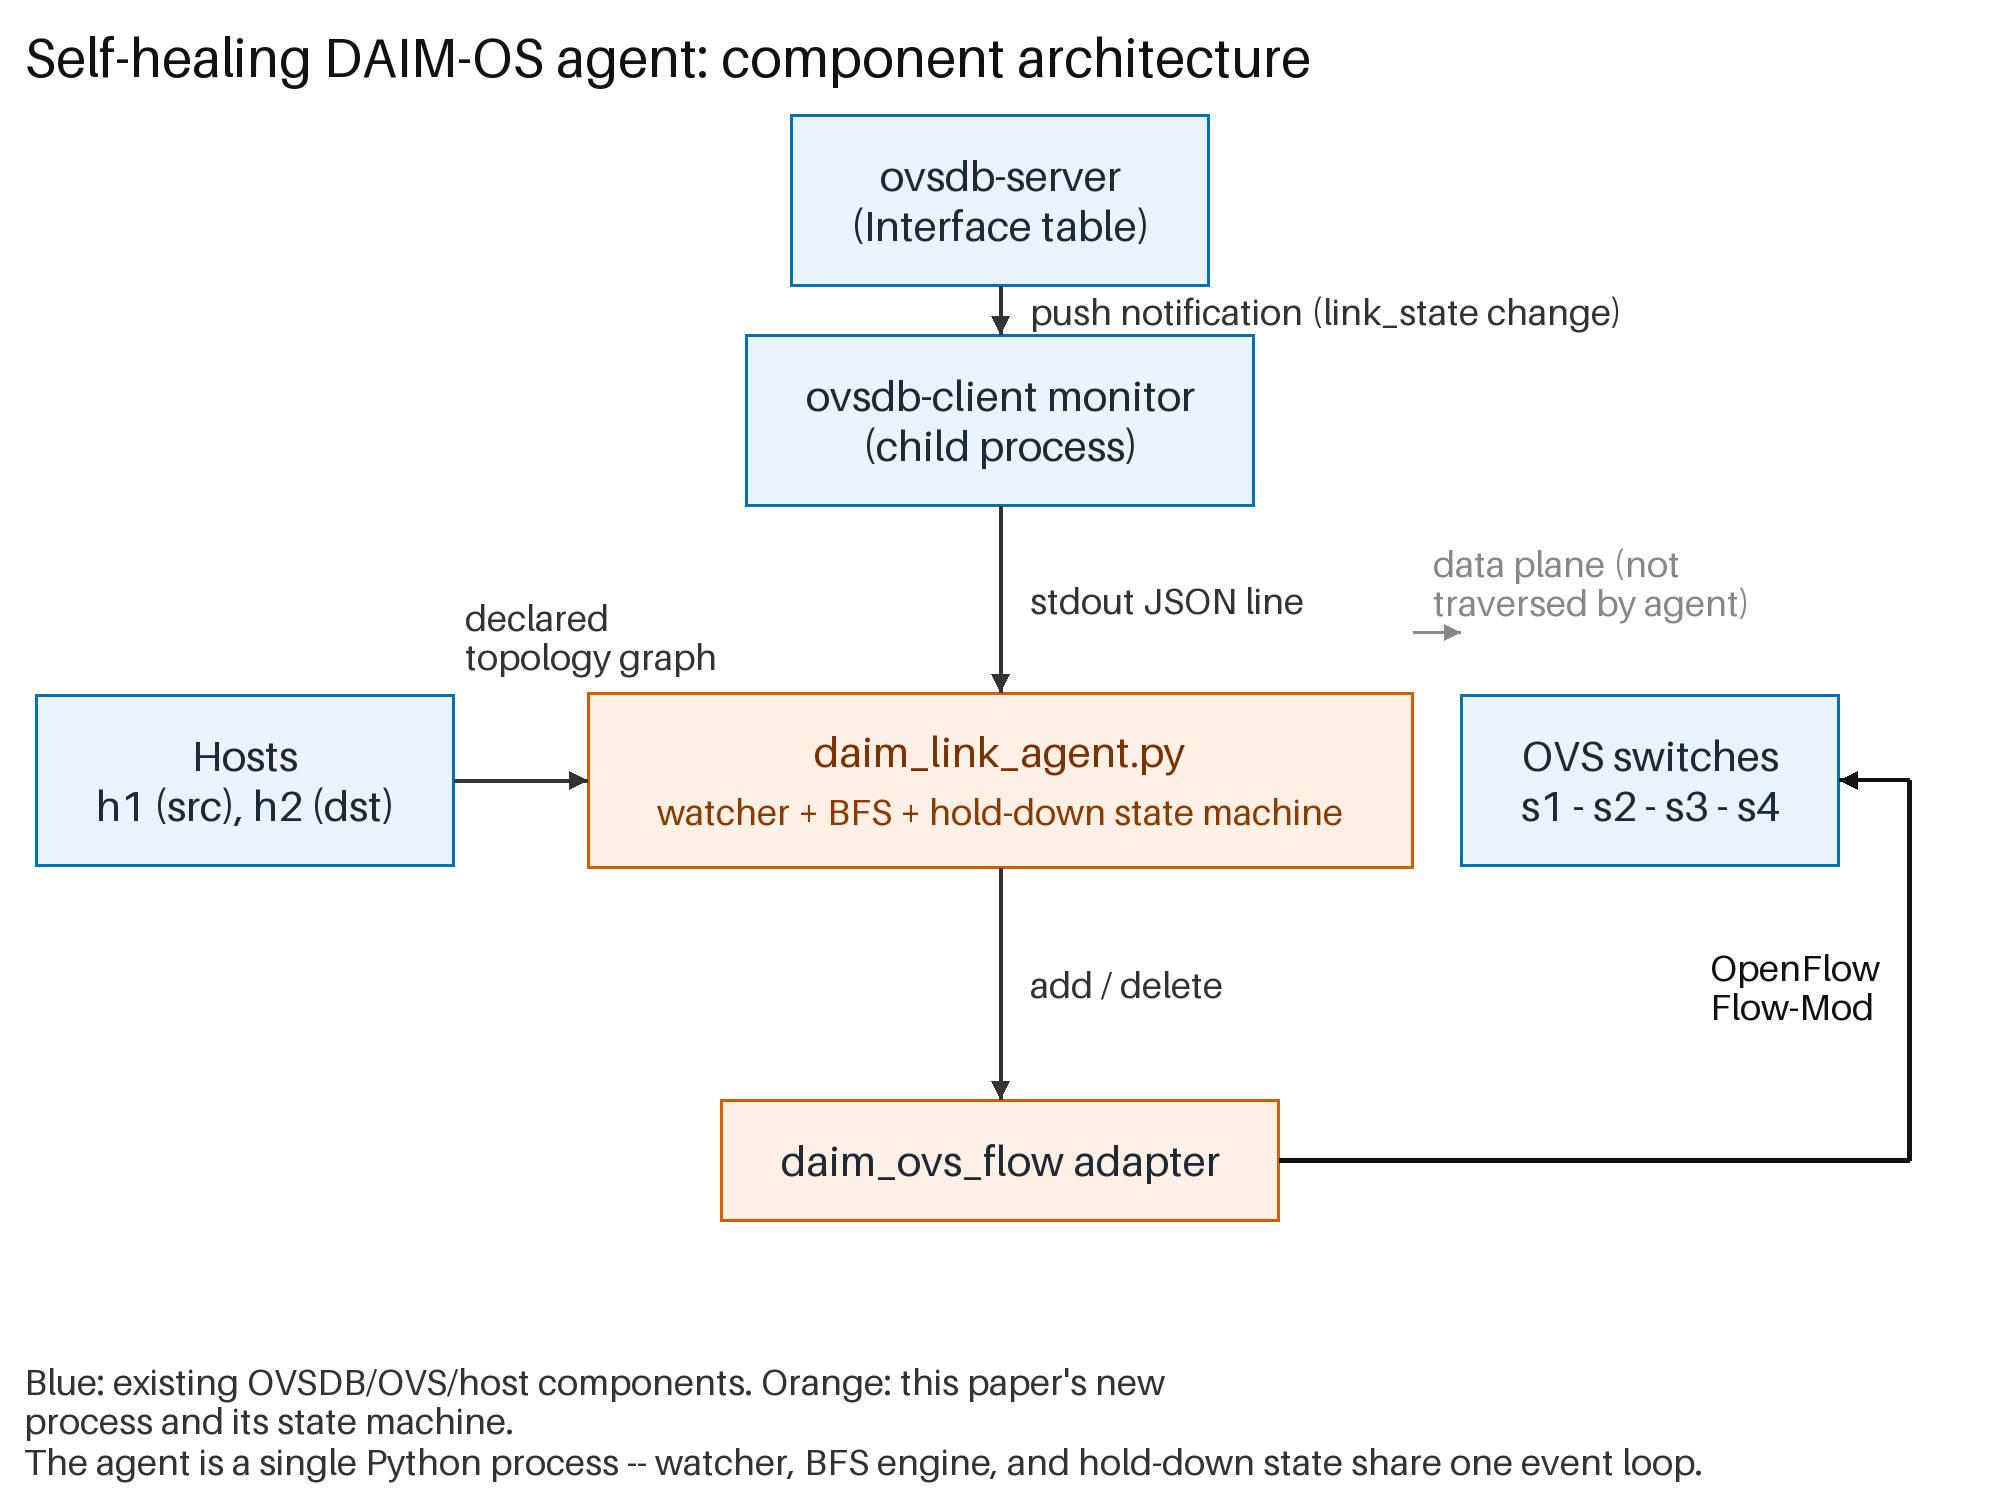
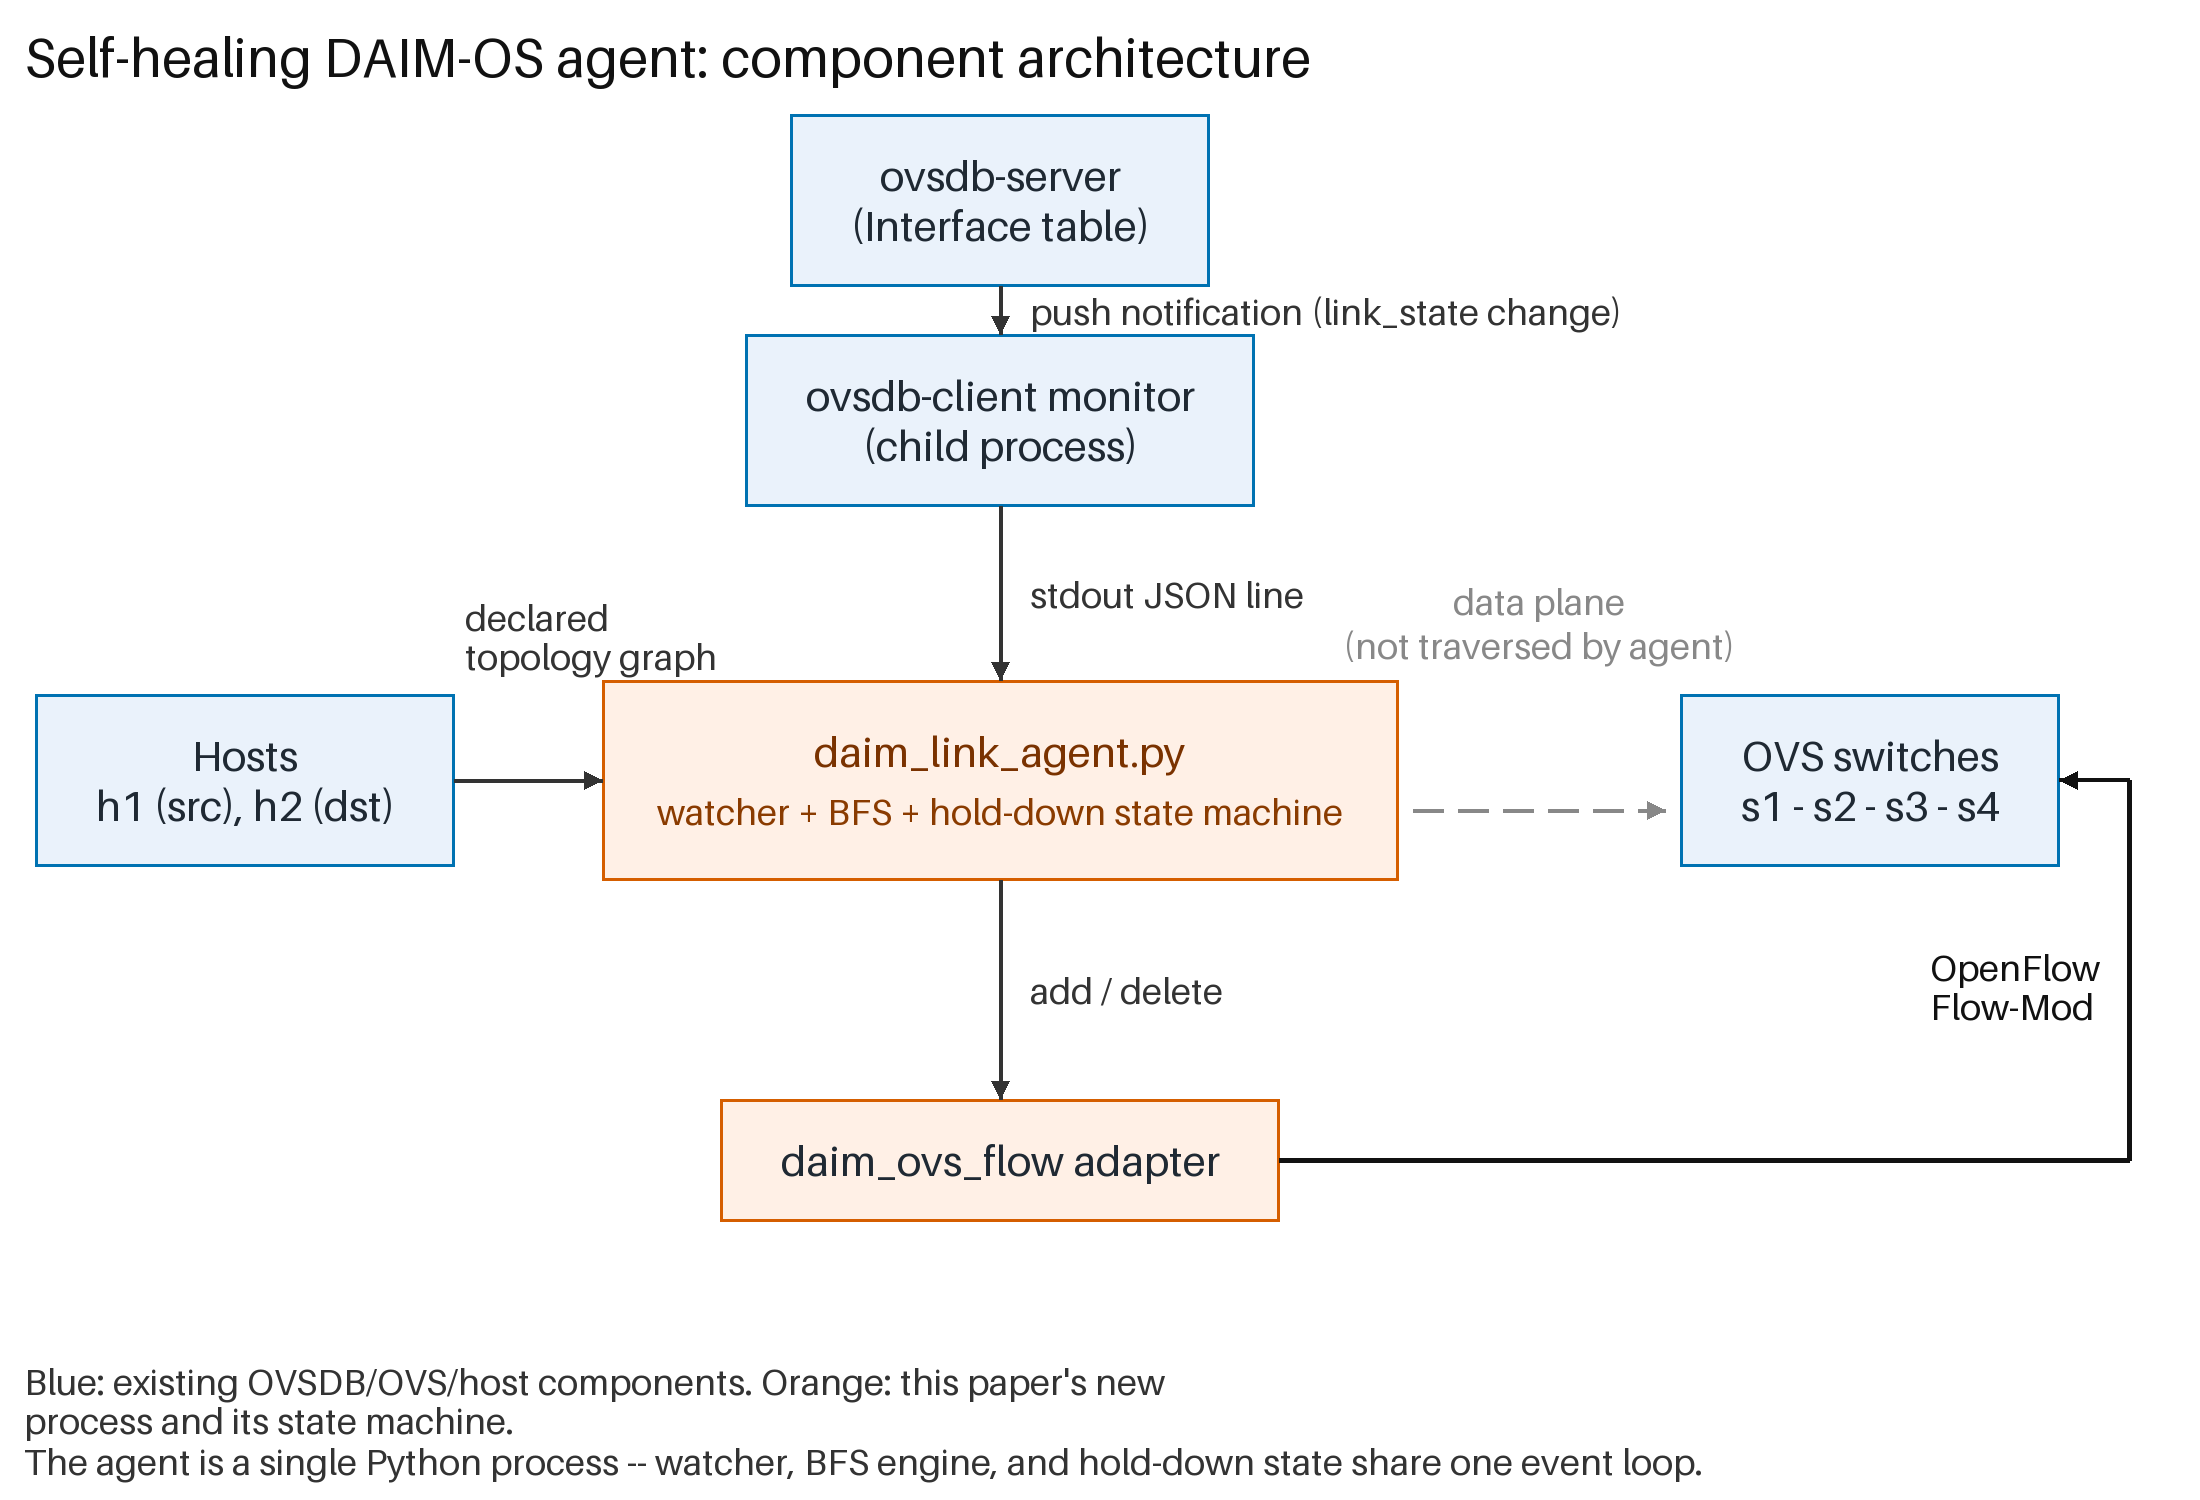
Fix architecture figure: visible data-plane arrow, wider agent box padding
The data-plane dashed arrow between the agent and OVS switches boxes was
compressed into a ~47px gap by how close those two boxes sat, rendering as
an all-but-invisible stub. Widened the canvas and the gap between them, and
gave the agent's two-tier box more vertical padding so its subtitle line
doesn't crowd the border.

diff --git a/analysis/paper3_analysis.py b/analysis/paper3_analysis.py
@@ -136,7 +136,7 @@ def v_arrow(draw, x, y0, y1, label, font, color="#333333", label_dx=14, width=4)
 # ------------------------------------------------------------- Figure 1 ----
 
 def draw_architecture(path):
-    width, height = 2000, 1500
+    width, height = 2200, 1500
     image = Image.new("RGB", (width, height), "white")
     draw = ImageDraw.Draw(image)
     title_font = ImageFont.load_default(size=54)
@@ -150,9 +150,10 @@ def draw_architecture(path):
     hosts = sized_box(draw, 245, 780, "Hosts\nh1 (src), h2 (dst)", font, fill="#EAF2FB", outline="#0072B2")
     agent = two_tier_box(
         draw, 1000, 780, "daim_link_agent.py", "watcher + BFS + hold-down state machine",
-        font, small, fill="#FFF0E6", outline="#D55E00", title_color="#7a3200", sub_color="#8a3b00",
+        font, small, pad_x=55, pad_y=46, fill="#FFF0E6", outline="#D55E00",
+        title_color="#7a3200", sub_color="#8a3b00",
     )
-    switches = sized_box(draw, 1650, 780, "OVS switches\ns1 - s2 - s3 - s4", font, fill="#EAF2FB", outline="#0072B2")
+    switches = sized_box(draw, 1870, 780, "OVS switches\ns1 - s2 - s3 - s4", font, fill="#EAF2FB", outline="#0072B2")
     adapter = sized_box(draw, 1000, 1160, "daim_ovs_flow adapter", font, fill="#FFF0E6", outline="#D55E00")
 
     v_arrow(draw, 1000, ovsdb[3], monitor[1], "", small)
@@ -164,10 +165,14 @@ def draw_architecture(path):
     h_arrow(draw, hosts[2], agent[0], 780, "", small)
     draw.text((hosts[2] + 10, 596), "declared\ntopology graph", fill="#333333", font=small)
 
-    dash_y = agent[1] - 60
-    styled_segment(draw, (agent[2], dash_y), (switches[0], dash_y), "dashed", 3, "#888888")
-    draw.polygon([(switches[0], dash_y), (switches[0] - 16, dash_y - 8), (switches[0] - 16, dash_y + 8)], fill="#888888")
-    draw.text((agent[2] + 20, dash_y - 90), "data plane (not\ntraversed by agent)", fill="#888888", font=small)
+    dash_y = 810
+    gap_mid = (agent[2] + switches[0]) / 2
+    styled_segment(draw, (agent[2] + 15, dash_y), (switches[0] - 15, dash_y), "dashed", 4, "#888888")
+    draw.polygon([(switches[0] - 15, dash_y), (switches[0] - 33, dash_y - 9), (switches[0] - 33, dash_y + 9)], fill="#888888")
+    for li, line in enumerate(("data plane", "(not traversed by agent)")):
+        lb = draw.textbbox((0, 0), line, font=small)
+        lw = lb[2] - lb[0]
+        draw.text((gap_mid - lw / 2, 580 + li * 44), line, fill="#888888", font=small)
 
     v_arrow(draw, 1000, agent[3], adapter[1], "", small)
     draw.text((1030, (agent[3] + adapter[1]) / 2 - 20), "add / delete", fill="#333333", font=small)
